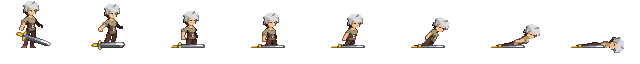
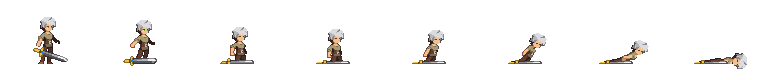
WIP redoing way of player movement

diff --git a/BuasAssignment/BuasAssignment/PlayerObject.cpp b/BuasAssignment/BuasAssignment/PlayerObject.cpp
@@ -11,12 +11,14 @@ PlayerObject::PlayerObject(Game* game) :
 	_idleAnimation(4, 96, 80, 0),
 	_runAnimation(8, 96, 80, 0),
 	_jumpAnimation(2, 96, 80, 0),
-	_attackAnimation(8, 96, 80, 0)
+	_attackAnimation(8, 96, 80, 0),
+	_deathAnimation(8, 96, 80, 0)
 {
 	_idleTexture.loadFromFile("Assets/Character/Idle/Idle-Sheet.png");
 	_runTexture.loadFromFile("Assets/Character/Run/Run-Sheet.png");
 	_jumpTexture.loadFromFile("Assets/Character/Jump-All/Jump-All-Sheet.png");
 	_attackTexture.loadFromFile("Assets/Character/Attack-01/Attack-01-Sheet.png");
+	_deathTexture.loadFromFile("Assets/Character/Dead/Dead-Sheet.png");
 
 	spriteOrigin = { _sprite.getGlobalBounds().width * 1.15f, _sprite.getGlobalBounds().height * 0.5f};
 
@@ -43,14 +45,14 @@ PlayerObject::PlayerObject(Game* game) :
 
 	objectPosition = { 300.f, 250.f }; //set start position
 	respawnLocation = objectPosition;
-	_objectDrag = 0.9f;
+	_objectDrag = 0.8f;
 
 	_hasGravity = true;
 	objectName = "Player";
 	objectMass = 1.75f;
 	objectType = PLAYER;
 
-	drawCollider = true;
+	//drawCollider = true;
 }
 
 void PlayerObject::Start()
@@ -76,18 +78,18 @@ void PlayerObject::Update(float deltaTime)
 		moveX += 1.f; //right
 
 	//if not grounded move slower
-	if(!_attacking)
-		SetVelocityX(moveX * (_grounded ? 1.f : 0.75f) * _playerSpeed * deltaTime);
-
+	if (!_attacking && !_isDead && abs(moveX) > 0)
+		ApplyForce(sf::Vector2f{ moveX * (_grounded ? 1.f : 0.75f) * _playerSpeed * deltaTime, 0.0f }, _maxMoveVelocity);
+		
 	//jumping input
-	if (Input::GetInput(sf::Keyboard::Space) && !_actionActive && _grounded)
+	if (Input::GetInput(sf::Keyboard::Space) && !_actionActive && _grounded && !_isDead)
 	{
 		float jumpVelocity = -sqrt(2 * GRAVITY * objectMass * _jumpHeight);
 
 		sf::Vector2f force(0.f, 0.f);
 		force.y = jumpVelocity / _jumpTime;
 
-		ApplyForce(force, deltaTime, true);
+		ApplyForce(force, deltaTime, _maxMoveVelocity);
 
 		_actionActive = true;
 		_actionDelay = 0.f;
@@ -97,7 +99,7 @@ void PlayerObject::Update(float deltaTime)
 	}
 
 	//attack input
-	if (Input::GetInput(sf::Keyboard::E) && !_actionActive && !_attacking)
+	if (Input::GetInput(sf::Keyboard::E) && !_actionActive && !_attacking && !_isDead)
 	{
 		_attacking = true;
 		_hasAttacked = false;
@@ -107,7 +109,12 @@ void PlayerObject::Update(float deltaTime)
 	}
 
 	//handle animation & texture swapping
-	if (_attacking) 
+	if (_isDead) 
+	{
+		if (_deathAnimation.PlayAnimation(_sprite, deltaTime))
+			_sprite.setTexture(_deathTexture);
+	}
+	else if (_attacking) 
 	{
 		if (_attackAnimation.PlayAnimation(_sprite, deltaTime))
 			_sprite.setTexture(_attackTexture);
@@ -117,12 +124,12 @@ void PlayerObject::Update(float deltaTime)
 		if (_jumpAnimation.PlayAnimation(_sprite, deltaTime))
 			_sprite.setTexture(_jumpTexture);
 	}
-	else if (abs(_velocity.x) > 0.f)
+	else if (abs(_velocity.x) > 0.1f)
 	{
 		if (_runAnimation.PlayAnimation(_sprite, deltaTime))
 			_sprite.setTexture(_runTexture);
 	}
-	else if (abs(_velocity.x) == 0.f)
+	else if (abs(_velocity.x) < 0.1f)
 	{
 		if (_idleAnimation.PlayAnimation(_sprite, deltaTime))
 			_sprite.setTexture(_idleTexture);
@@ -159,6 +166,13 @@ void PlayerObject::Update(float deltaTime)
 			return;
 		}
 
+		if(_isDead) 
+		{
+			//player is dead
+			_game->ResetGame();
+			_isDead = false;
+		}
+
 		//other actions 
 		_actionDelay = 0.f;
 		_currentDelay = 0.f;
@@ -189,7 +203,7 @@ void PlayerObject::GameObjectColliding(float deltaTime)
 	}
 
 	//player colliding with other game objects
-	for (auto object : _game->objectsList)
+	for (auto& object : _game->objectsList)
 	{
 		if (object.second == this || object.second->isDisabled)
 			continue;
@@ -207,23 +221,56 @@ void PlayerObject::GameObjectColliding(float deltaTime)
 		}
 
 		//player attacking overlap
-		if (_attacking && !_hasAttacked && object.second->objectType == ENEMY)
+		if (object.second->objectType == ENEMY)
 		{
-			//only attack second last frame in swings
-			if (_attackAnimation.GetAnimationStep() == 3 || _attackAnimation.GetAnimationStep() == 7)
+			if (_attacking && !_hasAttacked)
 			{
-				if(MathFunctions::AreBoundsColliding(_hitBox.getGlobalBounds(), object.second->GetBounds(), _overlapCollision))
+				//only attack second last frame in swings
+				if (_attackAnimation.GetAnimationStep() == 3 || _attackAnimation.GetAnimationStep() == 7)
 				{
-					EnemyObject* enemy = dynamic_cast<EnemyObject*>(object.second);
-					enemy->hitPoints.RemoveHitPoint();
+					if (MathFunctions::AreBoundsColliding(_hitBox.getGlobalBounds(), object.second->GetBounds(), _overlapCollision))
+					{
+						EnemyObject* enemy = dynamic_cast<EnemyObject*>(object.second);
+						enemy->hitPoints.RemoveHitPoint();
 
-					//push enemy back a bit
-					enemy->ApplyImpulse({ -enemy->GetCurrentMoveDirection() * 350.f, 0.f}, deltaTime);
-					_hasAttacked = true;
+						//push enemy back a bit in the direction you hit it
+						enemy->ApplyImpulse({ MathFunctions::Normalize(enemy->objectPosition - objectPosition).x * 350.f, 0.f }, deltaTime);
+						_hasAttacked = true;
+
+						return; //make sure player does not take damage in same frame as hitting enemy
+					}
 				}
+			}
+			
+			//do damage to player
+			if (MathFunctions::AreBoundsColliding(_collider.getGlobalBounds(), object.second->GetBounds(), _overlapCollision) && !_isDead && !_actionActive)
+			{
+				EnemyObject* enemy = dynamic_cast<EnemyObject*>(object.second);
+
+				hitPoints.RemoveHitPoint();
+
+				_actionActive = true;
+				_actionDelay = 0.f;
+				
+				_isDead = hitPoints.GetCurrentHitPoints() == 0;
+				_currentDelay = _isDead ? _deathDelay : _hitDelay;	
+
+				//ApplyImpulse({-MathFunctions::Normalize(enemy->objectPosition - objectPosition).x * 1500.f, 0.f }, deltaTime);
 			}
 		}
 	}
+}
+
+void PlayerObject::OnRespawn()
+{
+	_coinsCollected = 0;
+
+	hitPoints.ResetHitPoints();
+	_idleAnimation.ResetAnimation();
+	_runAnimation.ResetAnimation();
+	_jumpAnimation.ResetAnimation();
+	_attackAnimation.ResetAnimation();
+	_deathAnimation.ResetAnimation();
 }
 
 void PlayerObject::CheckOutOfBounds(sf::RenderWindow& window)
@@ -231,10 +278,8 @@ void PlayerObject::CheckOutOfBounds(sf::RenderWindow& window)
 	sf::FloatRect bounds = _sprite.getGlobalBounds();
 
 	//if player falling down, reset game
-	if (objectPosition.y + bounds.height > window.getSize().y)
-	{
-		_coinsCollected = 0;
-
+	if (objectPosition.y + bounds.height > window.getSize().y && !_isDead)
+	{		
 		_game->ResetGame();
 	}
 }

diff --git a/BuasAssignment/BuasAssignment/GameObject.cpp b/BuasAssignment/BuasAssignment/GameObject.cpp
@@ -109,15 +109,20 @@ void GameObject::Draw(sf::RenderWindow& window)
 	window.draw(_sprite);
 }
 
-void GameObject::ApplyForce(sf::Vector2f force, float deltaTime, bool onlyColliding)
+void GameObject::ApplyForce(sf::Vector2f force, float deltaTime, float maxVelocityX)
 {
-	if (onlyColliding && !_grounded || isDisabled)
+	if (isDisabled)
 		return;
 
 	//value makes sure the speed will never go faster than a certain amount
-	float speedPercent = 1 - MathFunctions::Clamp01(_velocity.y / _maxVelocity);
+	float speedPercentX = 1 - MathFunctions::Clamp01(_velocity.x / maxVelocityX == 0.0f ? _maxVelocity : maxVelocityX);
+	float speedPercentY = 1 - MathFunctions::Clamp01(_velocity.y / _maxVelocity);
 
-	_acceleration = force * deltaTime * speedPercent;
+	_acceleration.x = force.x * deltaTime * speedPercentX;
+	_acceleration.y = force.y * deltaTime * speedPercentY;
+
+	if(objectType == PLAYER)
+		std::cout << std::to_string(force.x) << " - " << std::to_string(force.y) << "\n";
 
 	_velocity += _acceleration;
 }
@@ -142,7 +147,6 @@ void GameObject::AddVelocity(sf::Vector2f velocity)
 {
 	_velocity += velocity;
 }
-
 
 void GameObject::SetVelocity(sf::Vector2f velocity)
 {

diff --git a/BuasAssignment/BuasAssignment/PlayerObject.h b/BuasAssignment/BuasAssignment/PlayerObject.h
@@ -14,14 +14,16 @@ public:
 	void Update(float deltaTime) override;
 	void Start() override;
 	void Draw(sf::RenderWindow& window) override;
+	void OnRespawn() override;
 
 	HitPoints hitPoints;
 
 private:
-	float _playerSpeed = 310.f;
+	float _playerSpeed = 9.f;
+	float _maxMoveVelocity = 7.f;
 	float _jumpHeight = 35.f;
 	float _jumpTime = 0.05f;
-	float _jumpReactivateDelay = .5f;
+	float _jumpReactivateDelay = .25f;
 	float _attackDelay = 0.125f * 4.f; //4 animation frames
 
 	float _currentDelay = 0.f;
@@ -31,6 +33,9 @@ private:
 	int _coinsCollected = 0;
 	bool _attacking = false;
 	bool _hasAttacked = false;
+	bool _isDead = false;
+	float _deathDelay = 1.5f;
+	float _hitDelay = 1.0f;
 
 	sf::Vector2f _pointHead = { 0.f, 0.f };
 
@@ -41,10 +46,12 @@ private:
 	sf::Texture _runTexture;
 	sf::Texture _jumpTexture;
 	sf::Texture _attackTexture;
+	sf::Texture _deathTexture;
 
 	Animations _idleAnimation;
 	Animations _runAnimation;
 	Animations _jumpAnimation;
 	Animations _attackAnimation;
+	Animations _deathAnimation;
 };
 

diff --git a/BuasAssignment/BuasAssignment/EnemyObject.cpp b/BuasAssignment/BuasAssignment/EnemyObject.cpp
@@ -15,7 +15,6 @@ EnemyObject::EnemyObject(Game* game):
 	_sprite.setTextureRect({288, 32, 48, 32});
 
 	//reset collider
-	//_collider.setSize(_sprite.getGlobalBounds().getSize());
 	_collider.setSize({45.f, 45.f});
 	spriteOrigin = { _sprite.getGlobalBounds().width * 0.15f, _sprite.getGlobalBounds().width * 0.1f };
 
@@ -25,12 +24,12 @@ EnemyObject::EnemyObject(Game* game):
 
 	objectName = "Snail";
 	objectType = ENEMY;
-	_enemySpeed = 100.f;
+	_enemySpeed = 55.f;
 	objectMass = 1.2f;
 	_objectDrag = 0.91f;
 	_hasGravity = true;
 
-	drawCollider = true;
+	//drawCollider = true;
 }
 
 void EnemyObject::Start()

diff --git a/BuasAssignment/BuasAssignment/GameObject.h b/BuasAssignment/BuasAssignment/GameObject.h
@@ -33,7 +33,7 @@ public:
 	void SetVelocityX(float x);
 	void SetVelocityY(float y);
 	void AddVelocity(sf::Vector2f velocity);
-	void ApplyForce(sf::Vector2f force, float deltaTime, bool onlyColliding = false);
+	void ApplyForce(sf::Vector2f force, float deltaTime, float maxVelocityX = 0.0f);
 	void ApplyImpulse(sf::Vector2f impulse, float deltaTime);
 	void FlipSprite(float originalScaleX, float widthMultiplier, bool flipped = false);
 	sf::FloatRect GetBounds() const;

diff --git a/BuasAssignment/BuasAssignment/MathFunctions.cpp b/BuasAssignment/BuasAssignment/MathFunctions.cpp
@@ -8,7 +8,7 @@ sf::Vector2f MathFunctions::Normalize(sf::Vector2f vector2)
 	float const mag = Magnitude(vector2);
 
 	if (mag == 0.0f)
-		return { 0.0f, 0.0f};
+		return {0.0f, 0.0f};
 
 	return vector2 / mag;
 }
